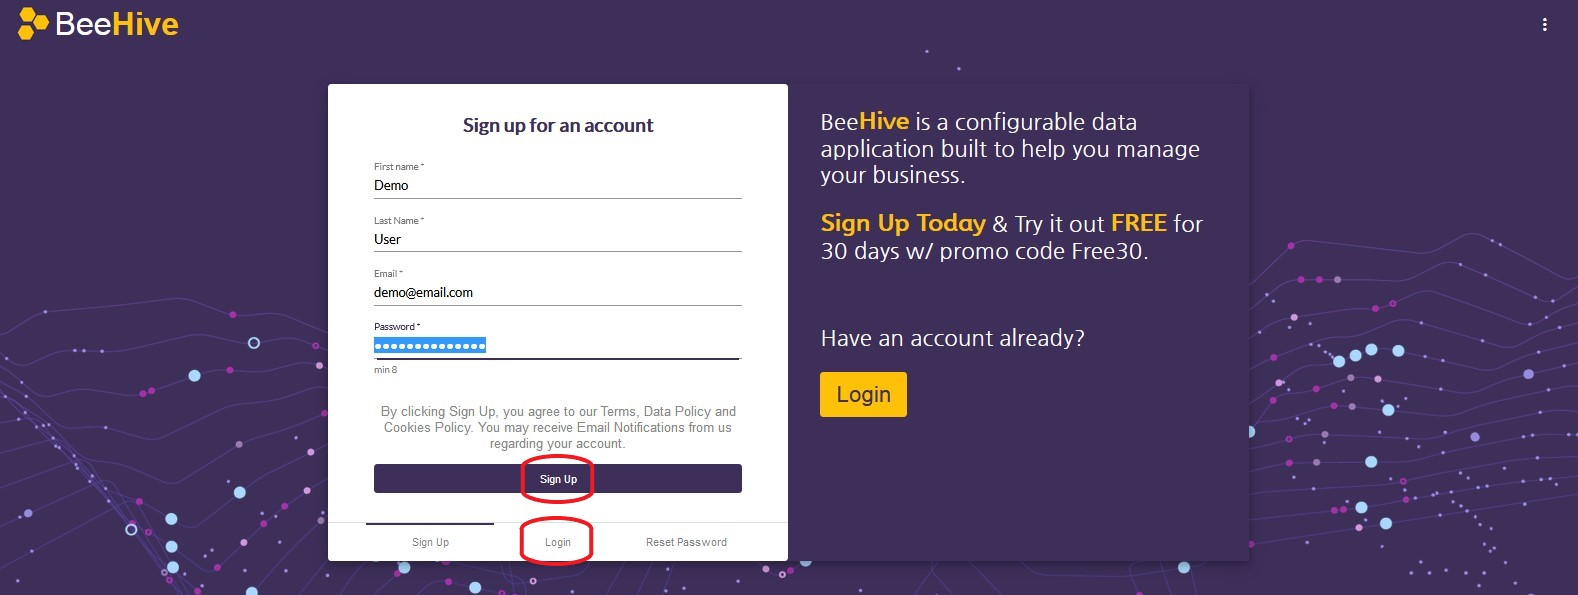
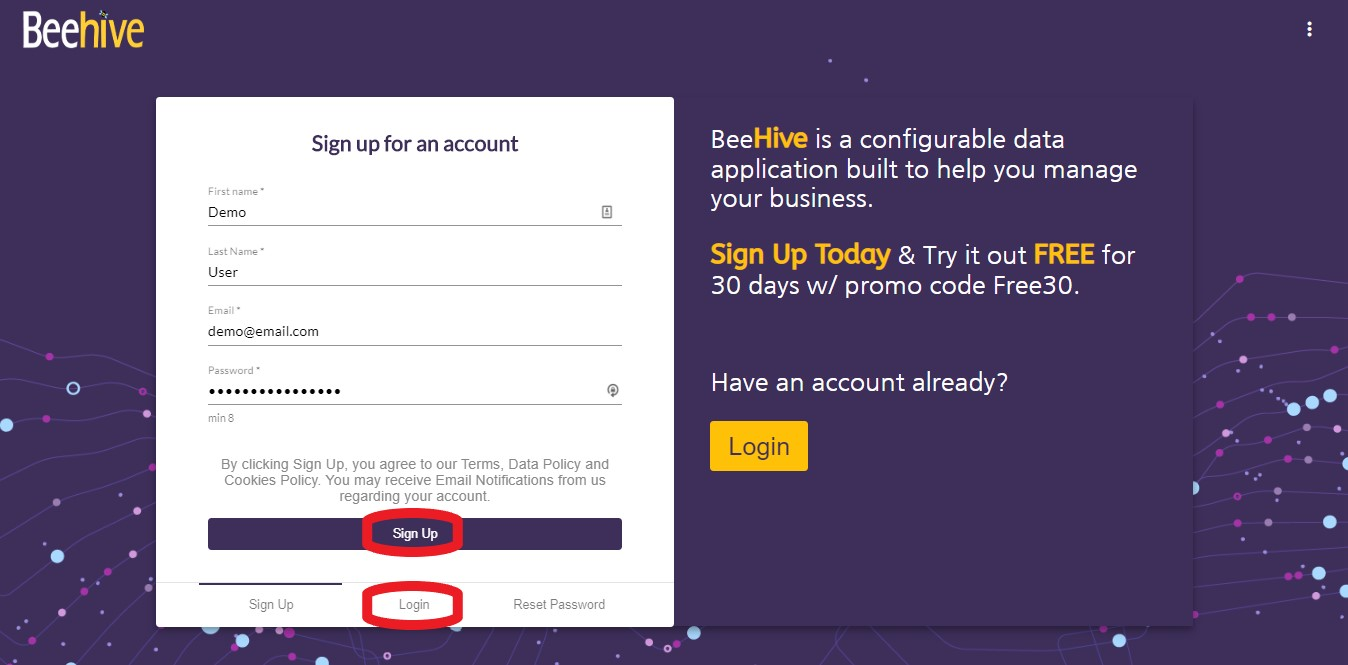
update

diff --git a/src/app/components/pages/procedure/procedure.component.html b/src/app/components/pages/procedure/procedure.component.html
@@ -17,11 +17,15 @@
 <mat-card class="card">
     <div>
         <h3>Walk Through</h3>
+        <div class="space-small"></div>
         <p>a) The Procedures section is a repository for groups of Items. They are visible and available to the end user
             to
             complete templates/forms. Forms can be accessed from here or from the Catalog section.</p>
+        <div class="space-small"></div>
         <p>b) Click on “Procedures” on the left menu.</p>
+        <div class="space-small"></div>
         <p>c) A list of procedures available to the end user will be visible. (see figure 1)</p>
+        <div class="space-small"></div>
         <img class="full-width" src='assets/img/img23.jpg' alt="Screen Shot">
         <p class="figure">Figure 1</p>
         <p class="tab">i) If you have one or more procedures already In Progress, those will be visible instead and
@@ -30,22 +34,32 @@
         <p class="tab">ii) To see the full list of available procedures, click on “Start” near the top righthand portion
             of
             the screen. The full list will appear.</p>
+        <div class="space-small"></div>
         <p>d) Click on “Start” to the right of the relevant procedure. (see figure 2)</p>
+        <div class="space-small"></div>
         <img class="full-width" src='assets/img/img24.jpg' alt="Screen Shot">
         <p class="figure">Figure 2</p>
+        <div class="space-small"></div>
         <p>e) The list of Items within the Procedure will appear.</p>
         <p class="tab">i) Note – Only “Save for Later” will appear available at the bottom of the screen. The option to
             “Complete Procedure” is not available until all Items within the Procedure are complete.</p>
+        <div class="space-small"></div>
         <img class="full-width" src='assets/img/img25.jpg' alt="Screen Shot">
         <p class="figure">Figure 3</p>
+        <div class="space-small"></div>
         <p>f) Click on Start next to the first Item on the list. (see figure 3)</p>
+        <div class="space-small"></div>
         <p>g) Enter your responses to the questions or action steps specified within that Item.</p>
+        <div class="space-small"></div>
         <p>h) Click on “Complete” when finished with that Item. A checkmark will replace “Start” next to the completed
             Item. (see figure 4)</p>
+        <div class="space-small"></div>
         <img class="full-width" src='assets/img/img26.jpg' alt="Screen Shot">
         <p class="figure">Figure 4</p>
+        <div class="space-small"></div>
         <p class="tab">i) To cancel completing an Item or form, click on “Discard” at the bottom of that form to return
             to the Procedures page.</p>
+        <div class="space-small"></div>
         <p>i) If you are interrupted or not able to complete an entire procedure at one time, click on “Save for Later”
             at the bottom of the procedure page to return to the main dashboard.</p>
     </div>

diff --git a/src/app/components/pages/create-and-manage-items/create-and-manage-items.component.html b/src/app/components/pages/create-and-manage-items/create-and-manage-items.component.html
@@ -17,28 +17,35 @@
 <mat-card class="card">
     <div>
         <h3>Walk Through</h3>
+        <div class="space-small"></div>
         <p>a) An Item is one level above the templates (forms) you created in Section 5. Multiple templates can be
             attached
             to an Item. Items can stand alone or roll up to a Procedure (see Section 7). All your Items are listed in
-            the
-            Catalog on the left menu (see Section 8).</p>
+            the Catalog on the left menu (see Section 8).</p>
+        <div class="space-small"></div>
         <p>b) Click on “Item Manager” from the left menu.</p>
+        <div class="space-small"></div>
         <p>c) If this is the first new Item in a Hive, simply enter
-
             an item name (required), searchable tags, and reference number (e.g., vehicle license plate number), as
             needed.
         </p>
+        <div class="space-small"></div>
         <p class="tab">i) If other Items already exist, click on “+ Create” at the top righthand part of the screen to
             bring up a new Item box (see figure 1)</p>
+            <div class="space-small"></div>
         <p class="tab">ii) Click “Enter” on your keyboard after creating each tag word or phrase to create multiple tags
         </p>
+        <div class="space-small"></div>
         <p>d) Attach the relevant template(s) by clicking on the “ + “ or “ > “. (see figure 1)</p>
         <img class="full-width" src='assets/img/img14.jpg' alt="Screen Shot">
         <p class="figure">Figure 1</p>
+        <div class="space-small"></div>
         <p class="tab">i) Remove extra templates from the item by clicking on the garbage can. These will be the
             questions or action steps the user follows for this Item. (see figure 1)</p>
+            <div class="space-small"></div>
         <p>e) Click on “Create Item” towards the upper right part of the active box. The information will be lost if you
             do not do so. (see figure 1)</p>
+            <div class="space-small"></div>
         <p>f) The Item now shows up on your Item Manager list in the left menu</p>
     </div>
 </mat-card>

diff --git a/src/app/components/page/page.component.html b/src/app/components/page/page.component.html
@@ -4,6 +4,9 @@
         the application you create a Hive which is a repository of templates, items, and procedures customized to your
         organization and objective. Each item can be assigned multiple templates to define what information you want to
         collect. The instructions below will outline the process involved.</p>
+    
+    <div class="space-small"></div>
+    
     <h2>Quick Access</h2>
 
     <div class="card center">
@@ -12,7 +15,6 @@
                 <div class="table-row">
                     <p>Getting Started</p>
                     <span class="spacer"></span>
-                    <!--<button mat-stroked-button color="primary">Start</button>-->
                 </div>
 
             </mat-card>
@@ -23,7 +25,6 @@
                 <div class="table-row">
                     <p>Catalogs</p>
                     <span class="spacer"></span>
-                    <!--<button mat-stroked-button color="primary">Start</button>-->
                 </div>
 
             </mat-card>
@@ -33,7 +34,6 @@
                 <div class="table-row">
                     <p>Managers</p>
                     <span class="spacer"></span>
-                    <!--<button mat-stroked-button color="primary">Start</button>-->
                 </div>
 
             </mat-card>
@@ -43,19 +43,18 @@
                 <div class="table-row">
                     <p>Basic Users</p>
                     <span class="spacer"></span>
-                    <!--<button mat-stroked-button color="primary">Start</button>-->
                 </div>
 
             </mat-card>
         </div>
     </div>
     <div class="space"></div>
-    <mat-card class="card">
+    <!--<mat-card class="card">
             <h3>Sub-title</h3>
             <div class="video">
                 <iframe src="https://www.youtube.com/embed/NpEaa2P7qZI" frameborder="0"
                     allow="accelerometer; autoplay; encrypted-media; gyroscope; picture-in-picture" allowfullscreen
                     class="frame"></iframe>
             </div>
-        </mat-card>
+        </mat-card>-->
 </div>

diff --git a/src/app/components/pages/edit-the-hive/edit-the-hive.component.html b/src/app/components/pages/edit-the-hive/edit-the-hive.component.html
@@ -17,17 +17,26 @@
 <mat-card class="card">
     <div>
         <h3>Walk Through</h3>
+        <div class="space-small"></div>
         <p>a) Click on three vertical dots to the right of the hive name. (see figure 1)</p>
+        <div class="space-small"></div>
         <p>b) Click on “Edit Hive” (see figure 1)</p>
+        <div class="space-small"></div>
         <img src='assets/img/img4.jpg' alt="Screen Shot">
         <p class="figure">Figure 1</p>
+        <div class="space-small"></div>
         <p>c) Click on “+ Add User” (see figure 2)</p>
+        <div class="space-small"></div>
         <p>d) Enter the email address of the person you are adding and click Search.</p>
+        <div class="space-small"></div>
         <p>e) Select the user you are adding. The default user level is “Member” which can only add documents to the
             hive.</p>
+        <div class="space-small"></div>
         <p>f) Change to Read Only, Manager, etc. if necessary by clicking the down-arrow next to manager and selecting
             from the drop-down box.</p>
+        <div class="space-small"></div>
         <p>g) Click on “Update Hive” to save your changes. (see figure 2)</p>
+        <div class="space-small"></div>
         <img class="full-width" src='assets/img/img5.jpg' alt="Screen Shot">
         <p class="figure">Figure 2</p>
     </div>

diff --git a/src/app/components/pages/data/data.component.html b/src/app/components/pages/data/data.component.html
@@ -16,16 +16,23 @@
 
 <mat-card class="card">
     <div>
+        <h3>Walk Through</h3>
+        <div class="space-small"></div>
         <p>a) The Data section is currently designed to enable a Hive manager to view the completion time of various
             Templates. This view may be updated in future releases.</p>
+        <div class="space-small"></div>
         <p>b) Choose the Template to view by clicking the down-arrow below Select Template. (see figure 1)</p>
+        <div class="space-small"></div>
         <img class="odd-pic" src='assets/img/img30.jpg' alt="Screen Shot">
         <p class="figure">Figure 1</p>
+        <div class="space-small"></div>
         <p>c) To look at the completion time of a specific question within a Template, click the down-arrow below
             Question to select the question. (see figure 2)</p>
+        <div class="space-small"></div>
         <p class="tab">i) Note – the time reflected is the total amount of time which elapsed from the start of the
             Template to the end of the specified question.</p>
-        <img class="odd-pic" src='assets/img/img31.jpg' alt="Screen Shot">
+            <div class="space-small"></div>
+            <img class="odd-pic" src='assets/img/img31.jpg' alt="Screen Shot">
         <p class="figure">Figure 2</p>
     </div>
 </mat-card>

diff --git a/src/app/components/pages/sheets/sheets.component.html b/src/app/components/pages/sheets/sheets.component.html
@@ -17,14 +17,20 @@
 <mat-card class="card">
     <div>
         <h3>Walk Through</h3>
+        <div class="space-small"></div>
         <p>a) The Sheets category in the menu is a list of all completed Templates/forms, as completed by end users.
             They are read-only and can be viewed by managers and end users.</p>
+        <div class="space-small"></div>
         <p>b) Click on “Sheets” on the left menu.</p>
+        <div class="space-small"></div>
         <p>c) This shows all completed Templates/forms from all end users. Click on any to view the details/responses. (see figure 1)
         </p>
+        <div class="space-small"></div>
         <img class="full-width" src='assets/img/img22.jpg' alt="Screen Shot">
         <p class="figure">Figure 1</p>
     </div>
+
+    
 </mat-card>
 <div class="space"></div>
 <mat-card class="card">

diff --git a/src/app/components/pages/logging-out/logging-out.component.html b/src/app/components/pages/logging-out/logging-out.component.html
@@ -2,8 +2,9 @@
     <div class="space"></div>
     <h2>Logging Out</h2>
     <p>How to log out/sign out</p>
-    <div class="space"></div>
+    
 </div>
+<!--<div class="space"></div>
 <mat-card class="card">
     <h3>Video Guide</h3>
     <div class="video">
@@ -11,14 +12,16 @@
             allow="accelerometer; autoplay; encrypted-media; gyroscope; picture-in-picture" allowfullscreen
             class="frame"></iframe>
     </div>
-</mat-card>
+</mat-card>-->
 <div class="space-small"></div>
 
 <mat-card class="card">
     <div>
         <h1>Logging Out</h1>
+        <div class="space-small"></div>
         <p>a) To log out of the application, click on the three vertical dots at the top righthand portion of the
             screen.</p>
+        <div class="space-small"></div>
         <p>b) Click on “Logout”</p>
     </div>
 </mat-card>

diff --git a/src/app/components/pages/removal-an-incorrectly-initiated-procedure/removal-an-incorrectly-initiated-procedure.component.html b/src/app/components/pages/removal-an-incorrectly-initiated-procedure/removal-an-incorrectly-initiated-procedure.component.html
@@ -17,6 +17,7 @@
 <mat-card class="card">
     <div>
         <h3>Walk Through</h3>
+        <div class="space-small"></div>
         <p>a) If you mistakenly begin the incorrect Procedure (e.g., if you have more than one available to you),
             complete the following steps:</p>
         <div class="space-small">
@@ -28,6 +29,7 @@
         <img class="full-width" src='assets/img/img27.jpg' alt="Screen Shot">
         <p class="figure">Figure 1</p>
         <p class="tab">v) Click on “Permanent Delete” in the pop-up screen.</p>
+        <div class="space-small"></div>
         <p>b) If you mistakenly begin the incorrect Template/form (e.g., if you have more than one available to you),
             complete the following steps:</p>
         <p class="tab">i) Click on the “Garbage Can” near the top righthand part of the screen.</p>

diff --git a/src/app/components/pages/dashboard/dashboard.component.html b/src/app/components/pages/dashboard/dashboard.component.html
@@ -17,11 +17,15 @@
 <mat-card class="card">
     <div>
         <h3>Walk Through</h3>
+        <div class="space-small"></div>
         <p>a) Click on “Dashboard” on the left menu</p>
+        <div class="space-small"></div>
         <p>b) The Dashboard contains a summary of recently completed Templates/forms.</p>
+        <div class="space-small"></div>
         <p>c) Note can be created here as well. Simply enter the desired information and click on “Create” when
             finished.
         </p>
+        <div class="space-small"></div>
         <p>d) Future updates to the Dashboard are under evaluation. These may include graphical representations of in
             progress and completed forms, etc. Exact changes have not yet been determined.</p>
     </div>

diff --git a/src/app/components/general/header-bar/header-bar.component.html b/src/app/components/general/header-bar/header-bar.component.html
@@ -2,14 +2,15 @@
     <button mat-icon-button (click)="menuPress()">
       <mat-icon>menu</mat-icon>
     </button>
-    <!--  -->
-    <h1 class="app-name">Bee<b>Hive</b></h1> <p class="Docs">DOCS</p>
+    
+    <h1 class="app-name"><img src="assets/img/beehivelogo100white2.png" alt="Bee Hive" class="logo-ee"></h1>
+    <p class="Docs">DOCS</p>
     <span class="spacer"></span>
     <div>
   
   
       <!--<div class="button-row">
-        <!-- <mat-form-field class="header-select">
+          <mat-form-field class="header-select">
           <mat-select [(value)]="selected">
             <mat-option>None</mat-option>
             <mat-option value="option1">Project 1</mat-option>

diff --git a/src/app/components/pages/creating-a-hive/creating-a-hive.component.html b/src/app/components/pages/creating-a-hive/creating-a-hive.component.html
@@ -17,10 +17,14 @@
 <mat-card class="card">
     <div>
         <h3>Walk Through</h3>
+
         <p>a) Click on “New Hive” in the upper right-hand corner of the screen. (see figure 1)</p>
+        <div class="space-small"></div>
         <img class="full-width" src='assets/img/img2.jpg' alt="Screen Shot">
         <p class="figure">Figure 1</p>
+        <div class="space-small"></div>
         <p>b) Enter the Hive title and description in the box which appears. (see figure 1)</p>
+        <div class="space-small"></div>
         <p>c) Click on “Create Hive” (see figure 2)</p>
         <img src='assets/img/img3.jpg' alt="Screen Shot">
         <p class="figure">Figure 2</p>

diff --git a/src/app/components/pages/kpi/kpi.component.html b/src/app/components/pages/kpi/kpi.component.html
@@ -17,10 +17,13 @@
 <mat-card class="card">
     <div>
         <h3>Walk Through</h3>
+        <div class="space-small"></div>
         <p>a) The KPI’s section is designed to reflect Key Performance Indicators from the information contained within
             that Hive.</p>
+            <div class="space-small"></div>
         <p>b) By default, it lists the status of any procedures currently in progress along with a list of the most
             recently activity within the Hive. (see figure 1)</p>
+            <div class="space-small"></div>
         <img class="full-width" src='assets/img/img29.jpg' alt="Screen Shot">
         <p class="figure">Figure 1</p>
     </div>
